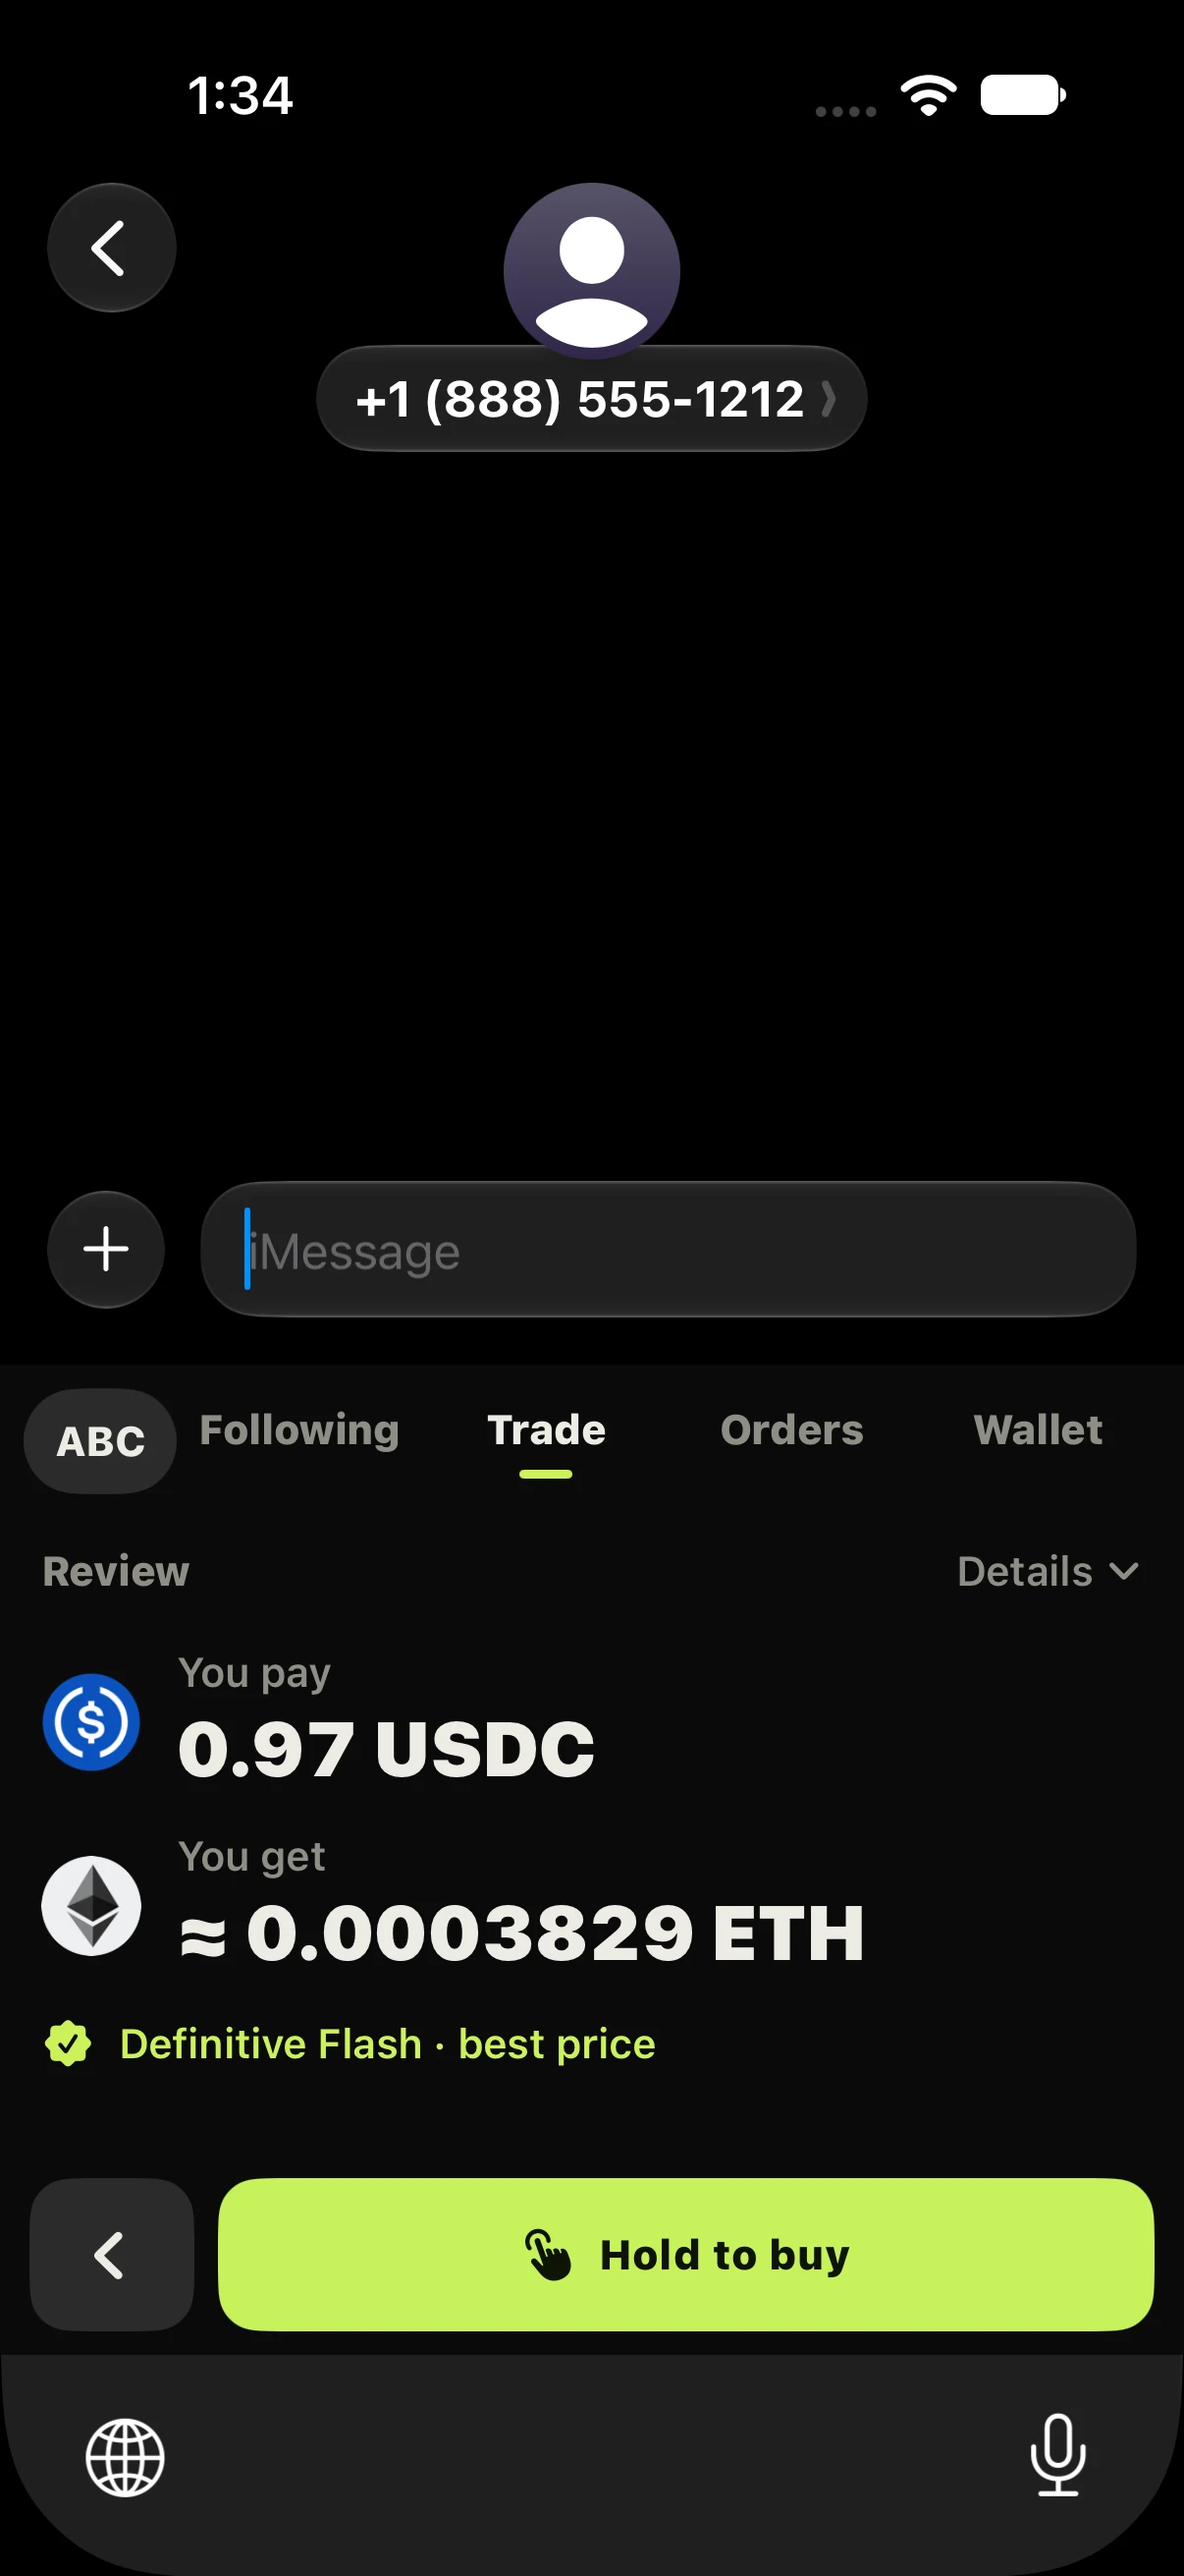
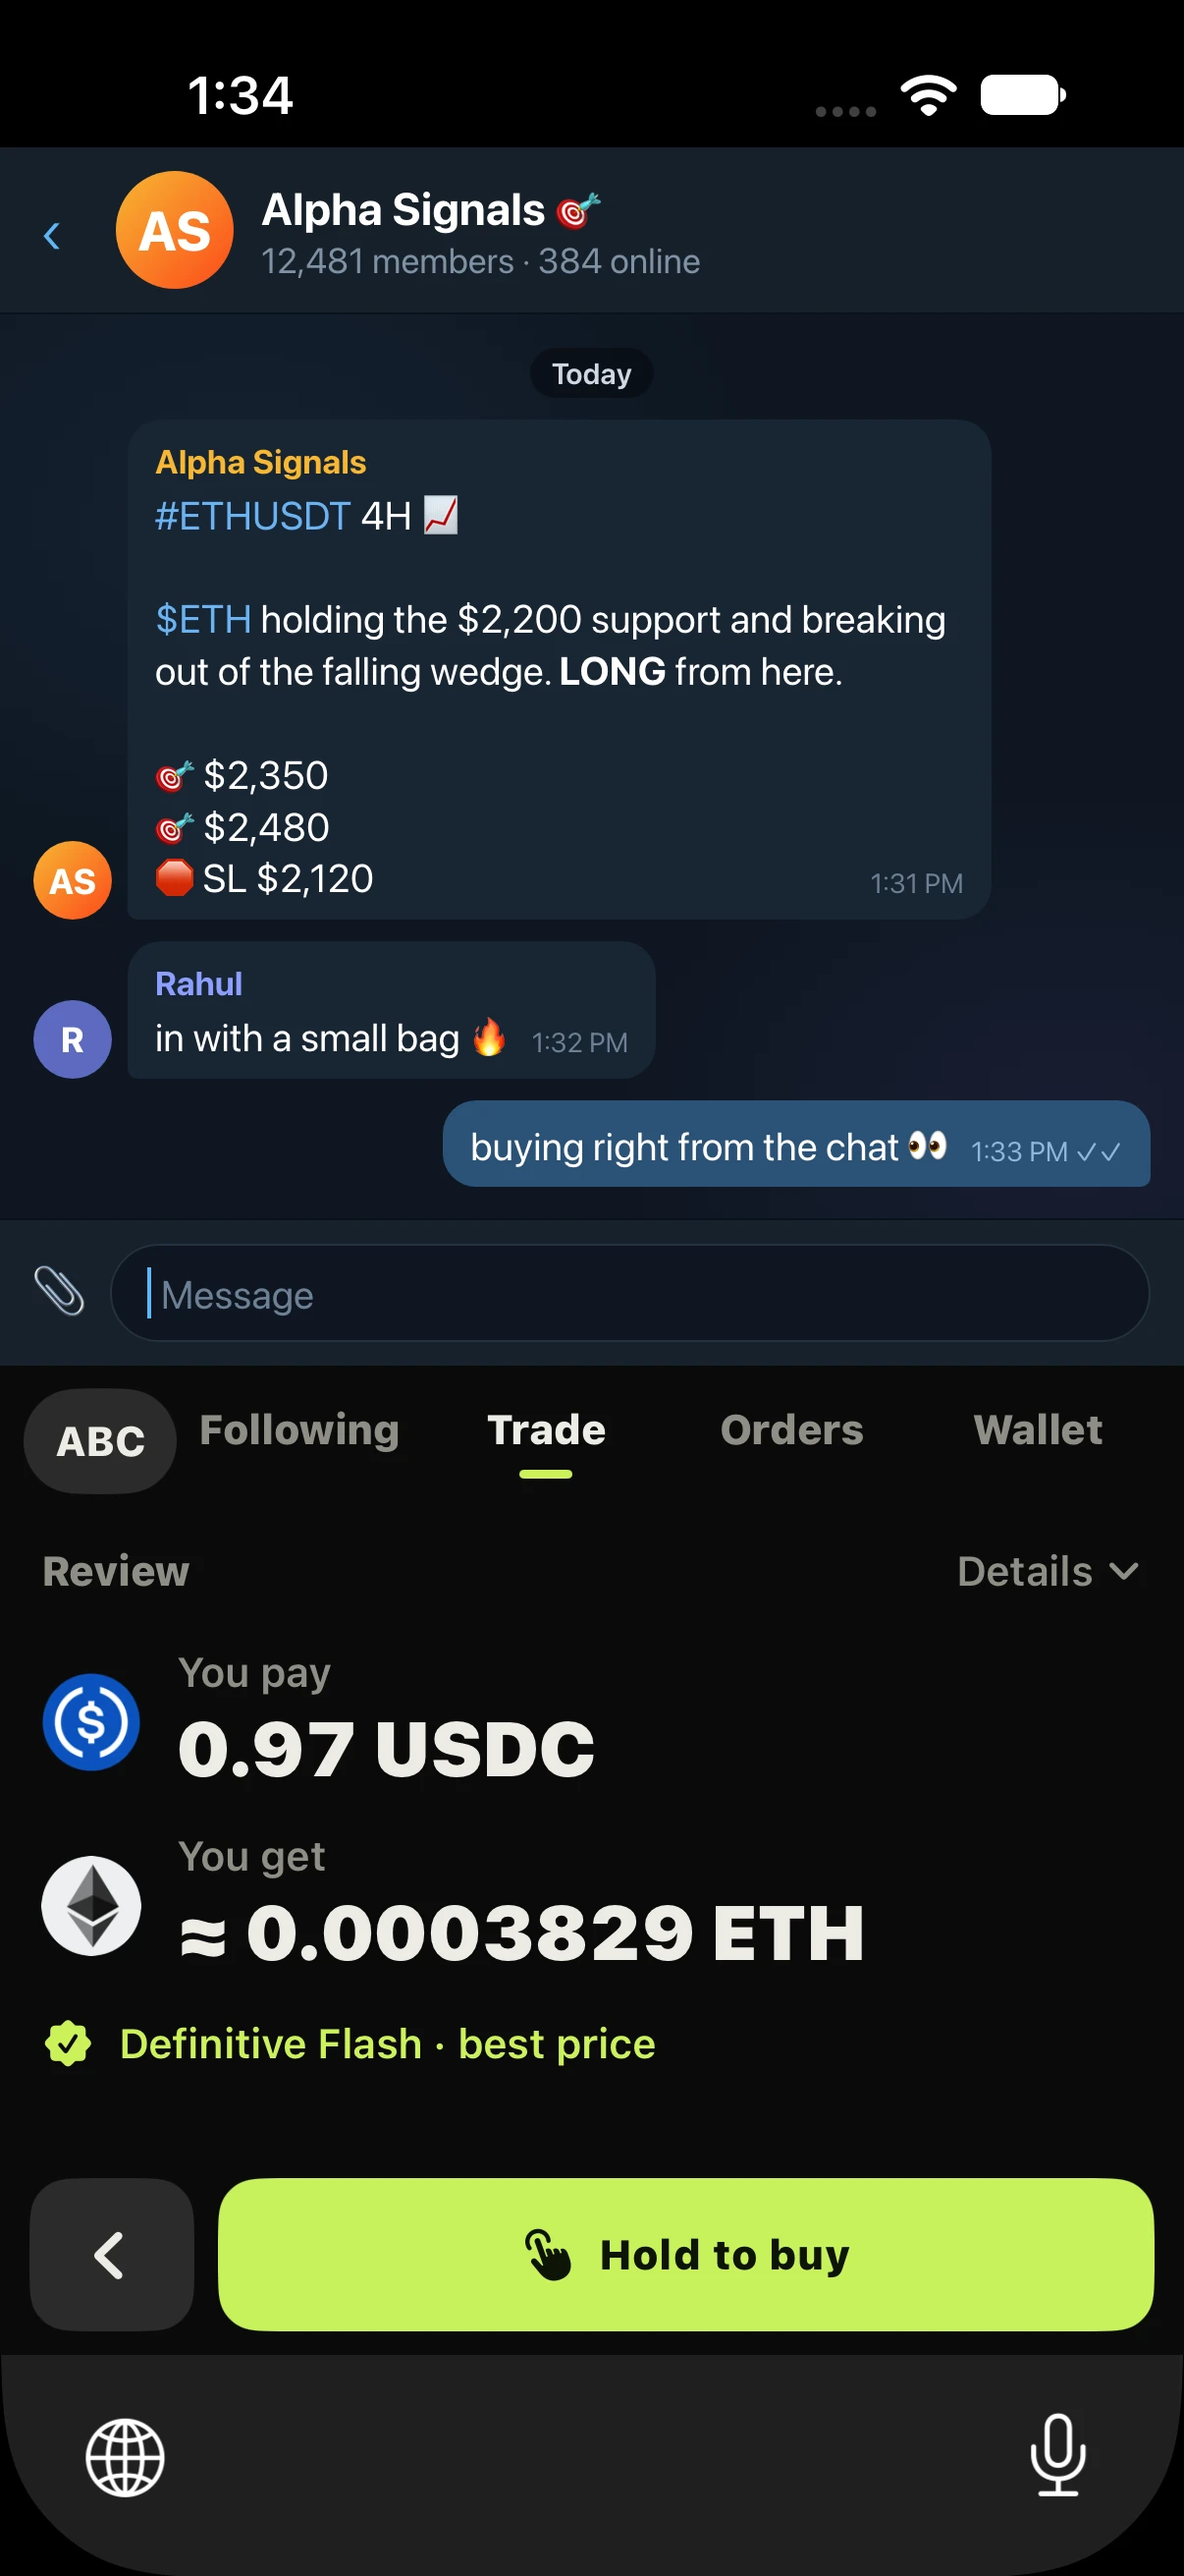
README: hold-to-buy screenshot in a Telegram signal group

diff --git a/README.md b/README.md
@@ -11,7 +11,7 @@
 <p align="center">
   <img src="docs/screenshots/submission/1-keyboard-swap.webp" width="24%" alt="Kall Keyboard: swap on Definitive Flash, right in the chat" />
   <img src="docs/screenshots/submission/2-keyboard-app-history.webp" width="24%" alt="Kall app: every trade from the keyboard, X and the web" />
-  <img src="docs/screenshots/submission/8-keyboard-hold-to-buy.webp" width="24%" alt="Kall Keyboard: press and hold to buy, so no trade goes out by accident" />
+  <img src="docs/screenshots/submission/8-keyboard-hold-to-buy.webp" width="24%" alt="Kall Keyboard in a Telegram signal group: hold to buy the call on Definitive Flash" />
 </p>
 <p align="center">
   <img src="docs/screenshots/submission/3-extension-trade-on-x.webp" width="48%" alt="Kall Extension on X: the caller's record and a Flash trade under the post" />
